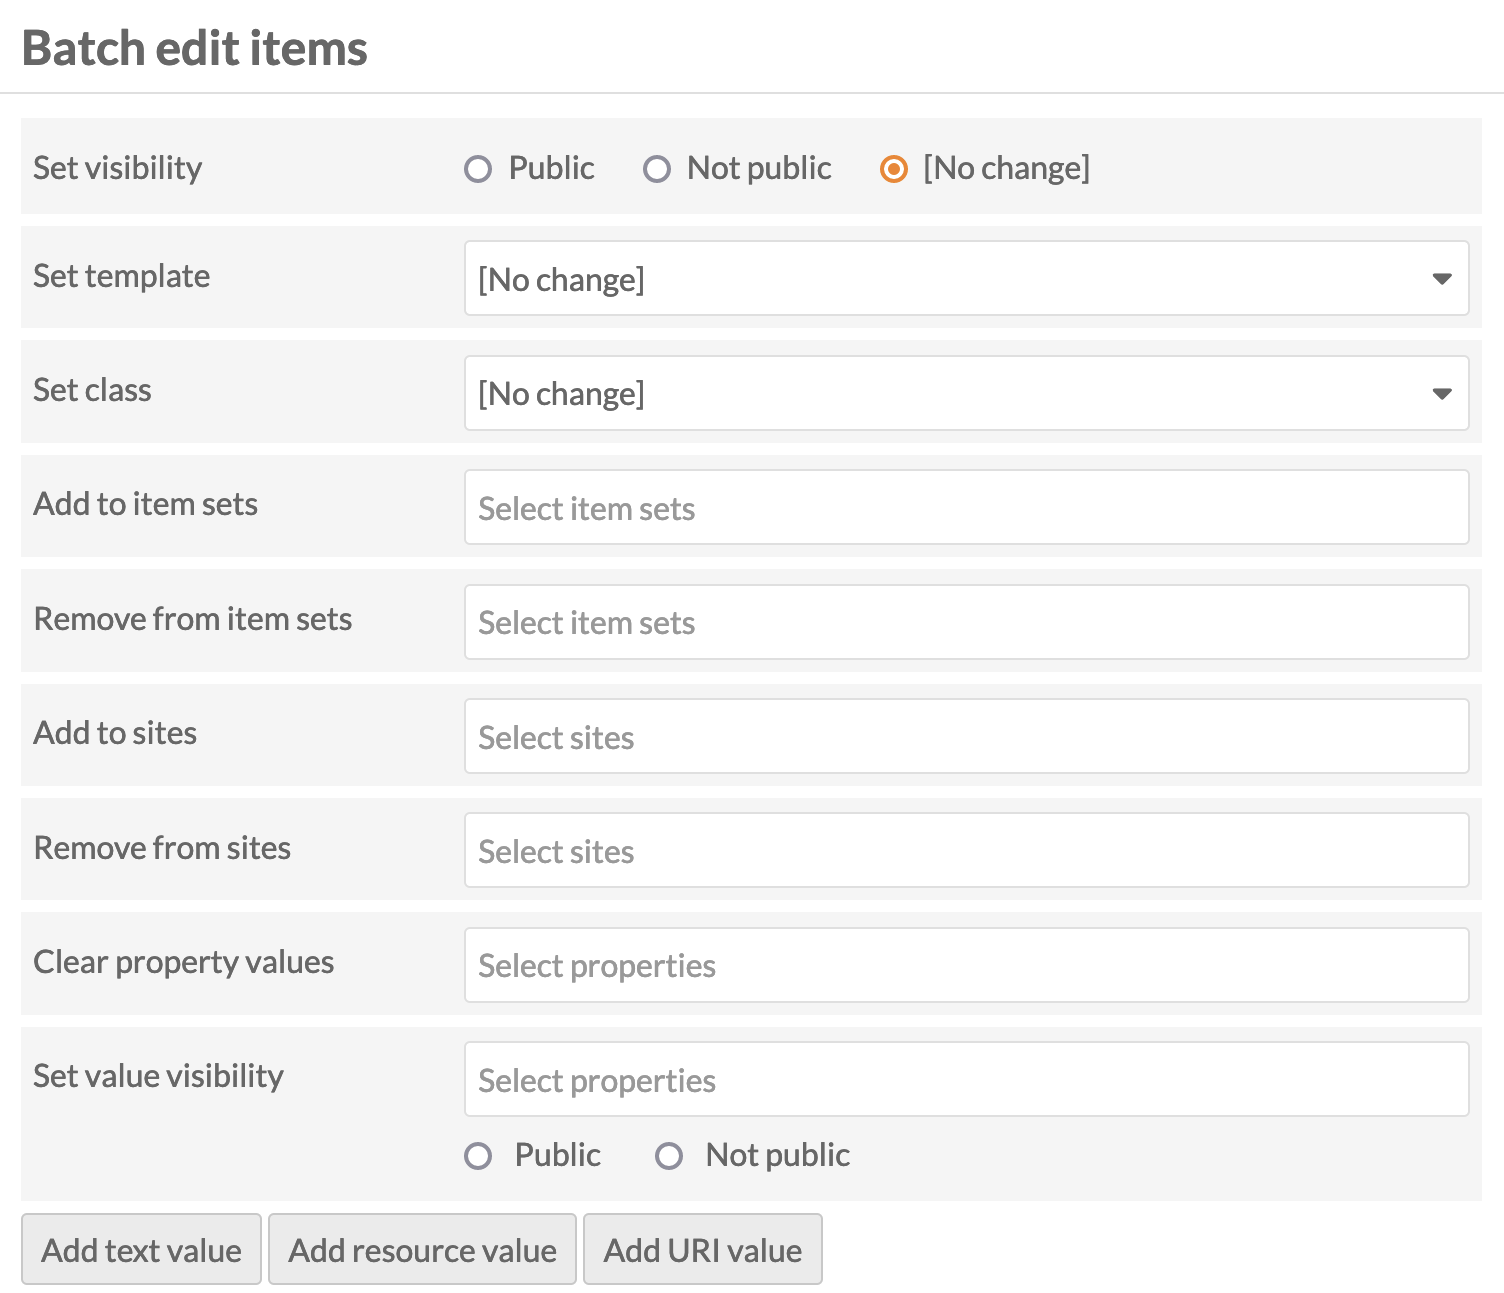
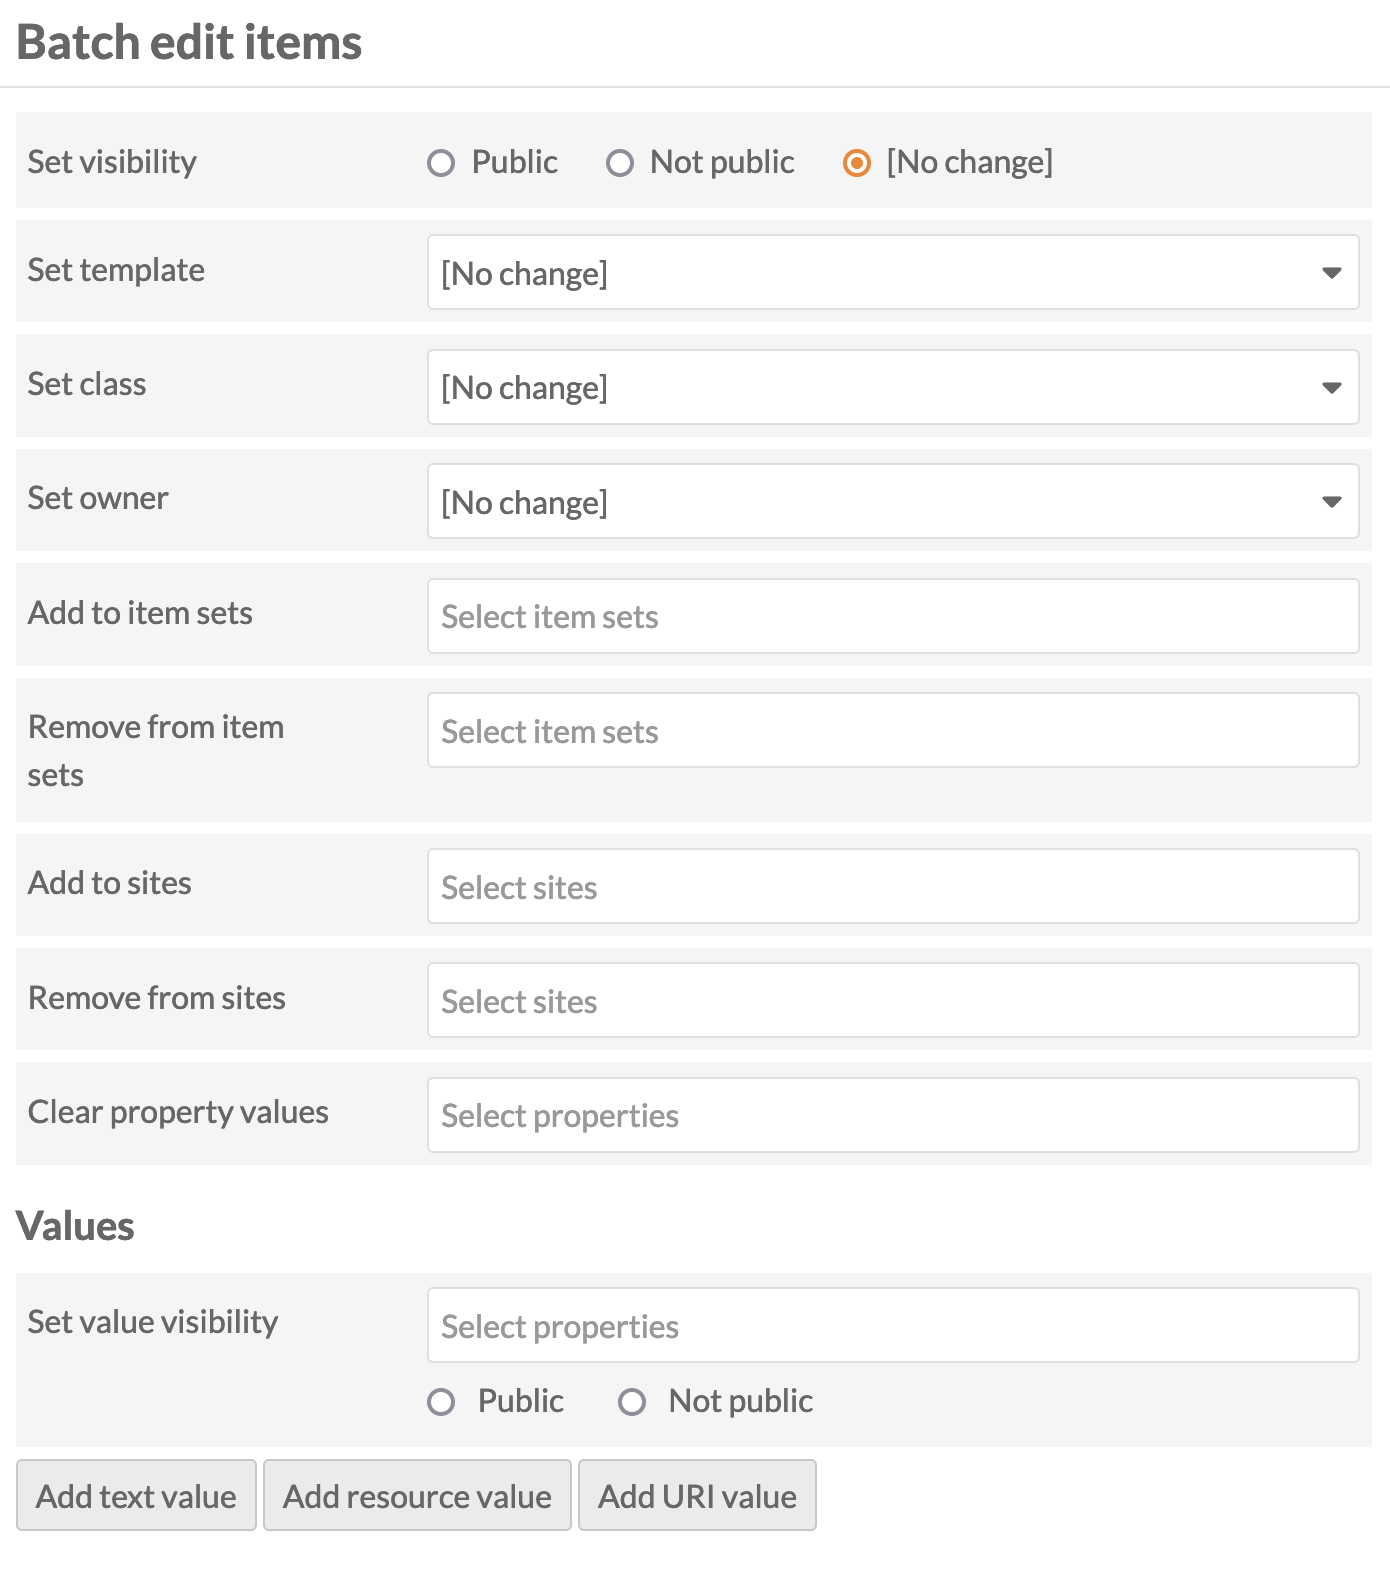
Batch edit

diff --git a/docs/content/item-sets.md b/docs/content/item-sets.md
@@ -2,7 +2,7 @@
 
 Item sets are aggregations of items, similar to collections in Omeka Classic. In Omeka S, items may belong to any number of sets, and an item set can have any number of items.
 
-Item Set permissions
+## Item Set permissions
 
 When a user creates an item set, they become the "owner" of that item set. Most user levels have the ability to create item sets, and can always delete their own item sets. Only higher levels can delete item sets that others own.
 
@@ -243,6 +243,7 @@ The batch edit form gives you the following options:
 - Set openness: a radio button. Select from open or not open. Open sets can be edited and added to by any user on the install; closed sets are available and editable only by its creator, site admins, and global admins.
 - Set template: a dropdown. Select from the installation's resource templates. You can remove templates from the selected item sets with the "[Unset template]" option. A search bar appears at the top of the dropdown menu if you would like to type to search.
 - Set class: a dropdown. Select from classes of the installed vocabularies. You can remove all classes from the selected item sets with the "[Unset class]" option. A search bar appears at the top of the dropdown menu if you would like to type to search.
+- Set owner: a dropdown. Select from users of the installation to choose who should be set as the owner of the selected item sets. Ownership determines [who can edit and delete those item sets](#item-set-permissions), outside the higher [user permission levels](../admin/users.md#roles-and-permissions).
 - Clear property values: a dropdown and text field, with all the properties in all vocabularies. Selecting from this will remove any values in that property in the affected item sets. You can remove multiple property values at once: click in the text field again to see the remaining options. 
 - Set value visibility: a dropdown and text field, with radio buttons. Set the visibility of a specific property or properties to either public or not public. Unlike the radio buttons at the top of the form, this will only affect one or more metadata fields, instead of the entire item set (for example, you may wish to hide the "Creator" value on some public item sets). Select a property from the text field (type to begin searching), and the choose either the "Public" or "Not public" radio button for this option. You can add multiple properties by clicking again within the text field, but they will all become either "Public" or "Not public".
 

diff --git a/docs/content/items.md b/docs/content/items.md
@@ -369,6 +369,7 @@ The batch edit form gives you the following options:
 - Set visibility: a radio button. Select from public or not public to make the item visible or not visible to logged-out users.
 - Set template: a dropdown. Select from the installation's resource templates. You can remove templates from the selected items with the "[Unset template]" option. A search bar appears at the top of the dropdown menu if you would like to type to search.
 - Set class: a dropdown. Select from classes of the installed vocabularies. You can remove all classes from the selected items with the "[Unset class]" option. A search bar appears at the top of the dropdown menu if you would like to type to search.
+- Set owner: a dropdown. Select from users of the installation to choose who should be set as the owner of the selected items. Ownership determines who can edit and delete those items, outside the higher [user permission levels](../admin/users.md#roles-and-permissions).
 - Add to item set: a dropdown and text field. Select from item sets on the installation, organized by owner, or type to search. You can add the selected items to multiple item sets: click in the text field again to see the remaining options.
 - Remove from item set: a dropdown and text field. Select from item sets on the installation, organized by owner, or type to search. You can remove the selected items from multiple item sets: click in the text field again to see the remaining options.
 - Add to sites: a dropdown and text field. Select from sites on the installation, or type to search. You can add the selected items to multiple sites: click in the text field again to see the remaining options.

diff --git a/docs/content/media.md b/docs/content/media.md
@@ -262,6 +262,7 @@ The batch edit form gives you the following options:
 - Set visibility: a radio button. Select from public or not public to make the file visible or not visible to logged-out users.
 - Set template: a dropdown. Select from the installation's resource templates. You can remove templates from the selected items with the "[Unset template]" option. A search bar appears at the top of the dropdown menu if you would like to type to search.
 - Set class: a dropdown. Select from classes of the installed vocabularies. You can remove all classes from the selected files with the "[Unset class]" option. A search bar appears at the top of the dropdown menu if you would like to type to search.
+- Set owner: a dropdown. Select from users of the installation to choose who should be set as the owner of the selected media. Changing media ownership will not change the associated items' ownership. Ownership determines [who can edit and delete those media](#media-permissions), outside the higher [user permission levels](../admin/users.md#roles-and-permissions).
 - Clear language: a checkbox to remove existing language settings.
 - Set language: a text field. Enter in a two-letter [ISO 639-1](https://en.wikipedia.org/wiki/List_of_ISO_639-1_codes){target=_blank} language code. You can only indicate one language here.
 - Clear property values: a dropdown and text field, with all the properties in all vocabularies. Selecting from this will remove any values in that property in the affected media. You can remove multiple property values at once: click in the text field again to see the remaining options.
